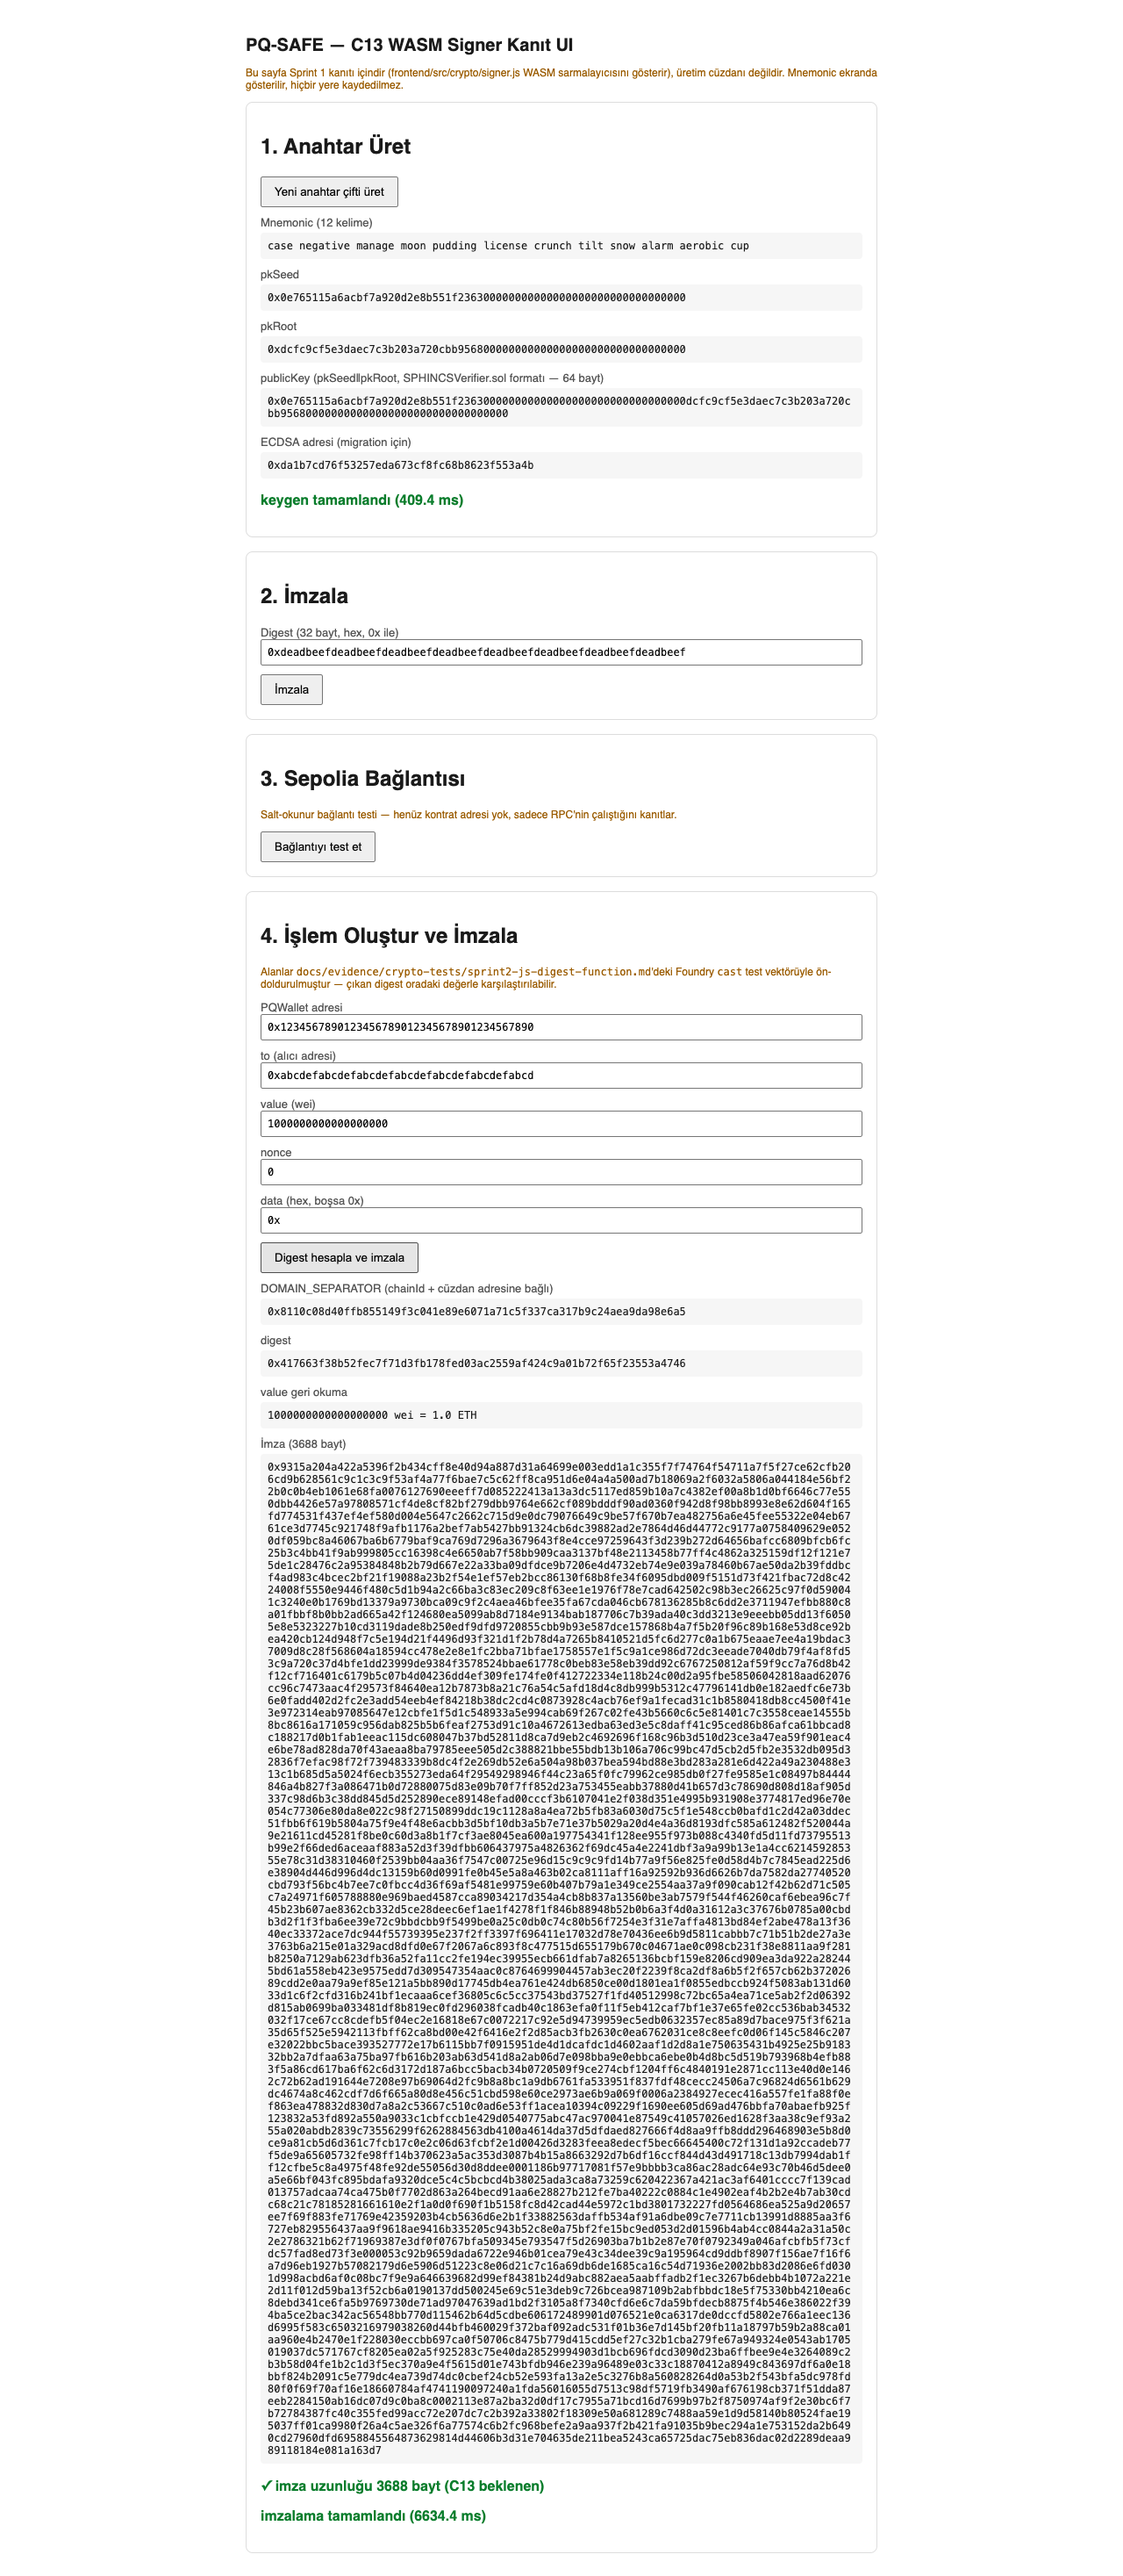
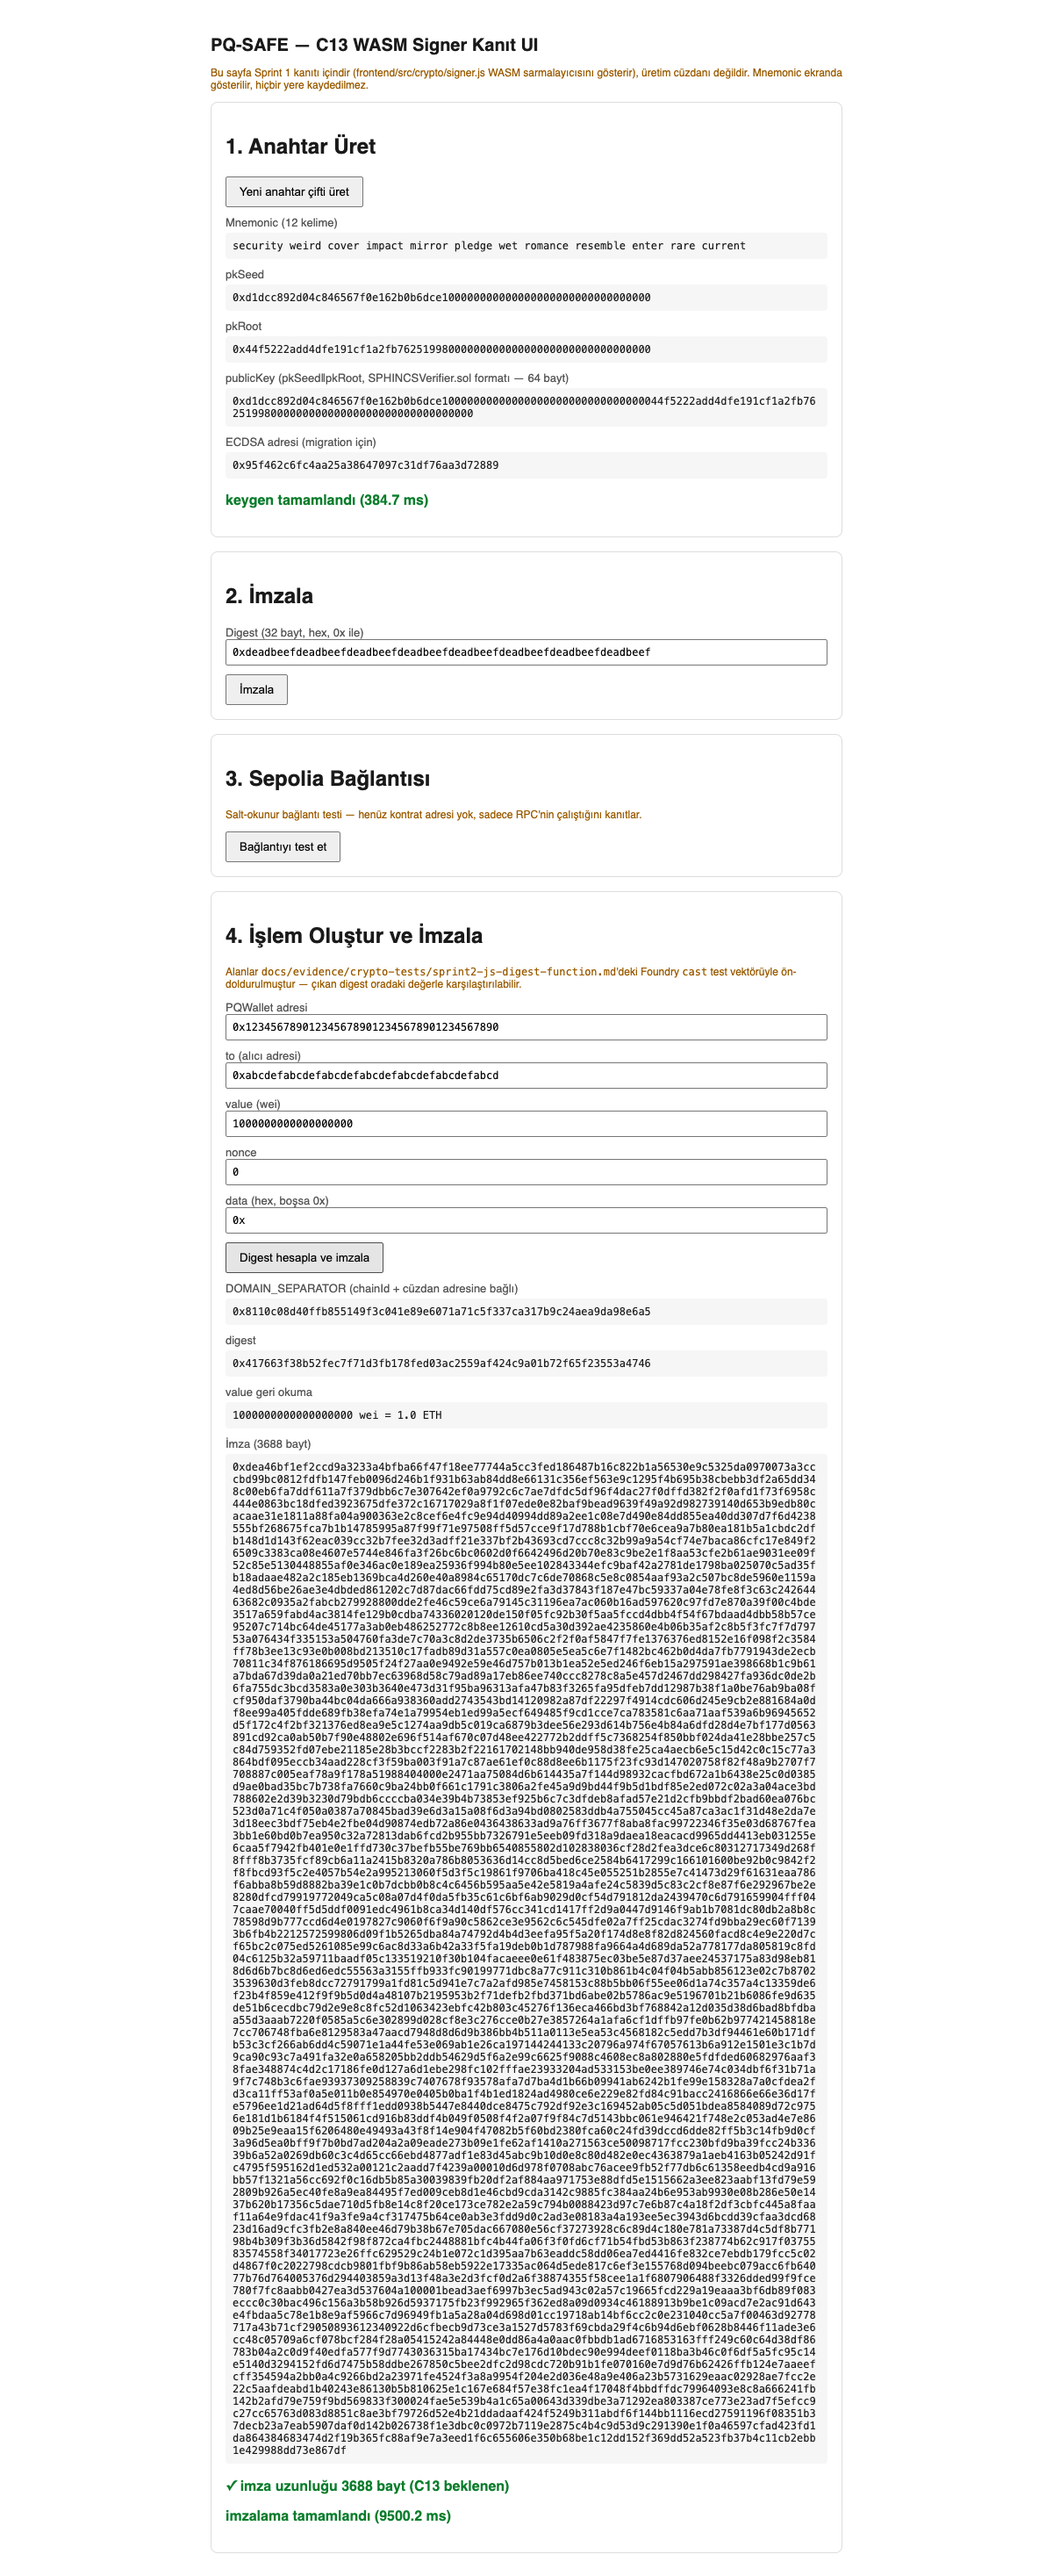
docs(evidence): işlem oluşturma ve imzalama akışı kanıt notu

Changed region(s): [[0.2158, 0.0, 0.7708, 0.9925]]

diff --git a/docs/evidence/crypto-tests/sprint3-transaction-builder.md b/docs/evidence/crypto-tests/sprint3-transaction-builder.md
@@ -1,0 +1,149 @@
+# Sprint 3 — İşlem oluşturma ve imzalama akışı kanıtı
+
+**Tarih:** 28 Ağustos 2026
+**Yazan:** Akif
+**Dosyalar:** `frontend/src/tx/buildTransaction.js`,
+`frontend/src/tx/build-transaction-test.mjs`, `frontend/index.html`,
+`frontend/src/main.js`, `frontend/src/crypto/signer.js`
+
+## Amaç
+
+Frontend iki şeyi ayrı ayrı kanıtlamıştı ama birbirine bağlamamıştı:
+`signer.js` rastgele bir digest'i imzalayabiliyordu (`sprint1-frontend-keygen-sign-ui.md`),
+`digest.js` dondurulmuş formata göre digest üretebiliyordu (`sprint2-js-digest-function.md`).
+Hiçbir akış ikisini birleştirmiyordu. Bu belge, kullanıcının girdiği gerçek
+işlem alanlarından gerçek bir digest üretilip o digest'in gerçekten
+imzalandığını kanıtlıyor.
+
+Bu, uçtan uca akışın Hakan'ın deploy'una bağlı olmayan kısmının tamamı.
+
+## Ortam
+
+```
+node    v22.21.0
+vite    8.2.2 (dev server)
+ethers  6.17.0
+Chrome  (Playwright, channel: chrome) — macOS 15.6
+```
+
+## 1. Otomatik doğrulama — `buildDigest()`
+
+`frontend/src/tx/build-transaction-test.mjs`, mevcut `.mjs` desenine uygun
+(`wasm-signer-test.mjs`, `noble-risk-test.mjs`).
+
+```
+$ cd frontend && node src/tx/build-transaction-test.mjs; echo "exit: $?"
+...
+TÜM TESTLER GEÇTİ
+exit: 0
+```
+
+**21 assertion** (10 değer karşılaştırması + 11 hata senaryosu), hepsi geçiyor.
+
+Beklenen digest değerleri Foundry `cast` ile bağımsız olarak üretildi
+(`sprint2-js-digest-function.md`), yani kendi kodunu kendine onaylatan bir
+test değil:
+
+| Test | Girdi | Beklenen (cast) |
+|---|---|---|
+| 1 | wallet `0x1234…7890`, nonce 0, to `0xabcd…abcd`, value `10^18`, data `0x` | DS `0x8110c08d…98e6a5`, digest `0x417663f3…3a4746` |
+| 2 | aynı wallet, nonce 5, value 42, data `0xdeadbeef` | digest `0xc9463c60…32ec29` |
+
+Kalan testler: checksum'suz adresin aynı digest'i vermesi, boş `data`'nın
+`0x` sayılması, alan-adlı hata mesajları, uint256 sınırları ve normalize
+edilmiş alanların döndürülmesi.
+
+## 2. Tarayıcı doğrulaması — uçtan uca
+
+Ön-doldurulmuş form (Test 1 vektörü) ile "Digest hesapla ve imzala":
+
+```
+DOMAIN_SEPARATOR : 0x8110c08d40ffb855149f3c041e89e6071a71c5f337ca317b9c24aea9da98e6a5
+digest           : 0x417663f38b52fec7f71d3fb178fed03ac2559af424c9a01b72f65f23553a4746
+value geri okuma : 1000000000000000000 wei = 1.0 ETH
+imza             : 3688 bayt (C13 beklenen) ✓
+imzalama süresi  : 9500.2 ms
+keygen süresi    : 384.7 ms
+```
+
+DOMAIN_SEPARATOR ve digest, yukarıdaki `cast` değerleriyle **birebir aynı** —
+yani tarayıcıdaki akış, bağımsız olarak doğrulanmış formatı üretiyor.
+
+Ekran görüntüsü: `docs/evidence/screenshots/sprint3-transaction-builder.png`
+
+**Süre notu:** imzalama süresi çalıştırmalar arasında değişiyor; aynı
+makinede 6634 ms ve 9500 ms ölçüldü. `sprint1-wasm-signer-test.md`'deki
+~7.5 sn ile aynı mertebede. Bu bir kanıt rakamı değil, kabaca bir gösterge.
+
+## 3. Hata yolları
+
+| Senaryo | Gözlenen |
+|---|---|
+| `to` = `0xzzz` | `Hata: to alanı geçerli bir adres değil: 0xzzz` |
+| `nonce` boş / hiç verilmemiş | `nonce alanı boş bırakılamaz` |
+| `value` = 2^256 | `value alanı uint256 sınırını aşıyor: …` |
+| anahtar üretilmemiş | `Önce anahtar üret.` |
+
+Hepsi **alan adını** taşıyor. Beş girdili bir formda ethers'ın çıplak
+`invalid address` mesajı hangi alanı kastettiğini söylemediği için
+kullanılamaz.
+
+### Boş `nonce` neden hata veriyor
+
+JavaScript'te `BigInt('') === 0n`. İlk implementasyonda boş, eksik veya
+`null` bir `nonce` sessizce `0`'a çöküyordu — yani "nonce girmedim" ile
+"nonce=0 girdim" ayırt edilemiyordu. SPHINCS- stateless olduğu ve leaf
+sayacı bulunmadığı için **nonce bu projenin tek replay koruması**
+(bkz. `CLAUDE.md`). Review bunu yakaladı, boş girdi artık açıkça
+reddediliyor.
+
+## 4. XSS doğrulaması
+
+Hata mesajları kullanıcının girdiği ham değeri içeriyor (hangi alanın hatalı
+olduğunu söylemek için) ve `innerHTML` ile basılıyor. Sayfa aynı zamanda
+mnemonic'i DOM'a yazdığı için bu bir sızıntı yolu olurdu. Review yakaladı,
+`esc()` yardımcısı eklendi ve dört hata bloğunun hepsine uygulandı.
+
+Anahtar üretildikten sonra (yani mnemonic DOM'dayken) `to` alanına
+`<img src=x onerror="window.__pwned=1">` yapıştırılarak test edildi:
+
+```
+window.__pwned      : undefined   ← script çalışmadı
+DOM'da gerçek <img> : YOK
+HTML kaçışlı mı     : EVET (&lt;img)
+görünen metin       : Hata: to alanı geçerli bir adres değil: <img src=x onerror="window.__pwned=1">
+```
+
+Payload hata mesajına ulaşıyor (yani test gerçekten kaçışı sınıyor) ama
+metin olarak gösteriliyor, çalıştırılmıyor.
+
+## 5. Tasarım kararı: normalize edilmiş alanlar döndürülüyor
+
+`buildDigest()` sadece hash'leri değil, normalize ettiği alanları da
+(`fields`) döndürüyor. Gerekçe: sonraki adımda `execute()` calldata'sı bu
+alanlardan kurulacak ve **digest'e giren byte'larla birebir aynı olmak
+zorunda**, yoksa on-chain verifier `false` döner. Ham girdiden yeniden
+normalize edilseydi ikinci bir normalizasyon yolu doğar ve sessizce
+sapabilirdi — hata modu yerelde yeşil sayfa, zincirde çıplak revert olurdu.
+Test 9 bunun regresyon guard'ı.
+
+## Bilinen sınırlar
+
+Bunlar "yapılmadı" değil, **şu an böyle** — sonraki adımda değişecekler:
+
+- **Nonce serbest metin.** Bu akış replay korumasını *göstermiyor*; nonce
+  sadece digest'e giren bir sayı. Gerçek koruma, nonce'un `PQWallet`'ın
+  on-chain state'inden okunmasıyla test edilir ve Hakan'ın deploy adresine
+  bağlı. Üretim UI'ında bu alan serbest metin olmayacak.
+- **PQWallet adresi de girdi alanı.** Aynı gerekçe.
+- Üretilen imza **on-chain doğrulanmıyor** (deploy edilmiş kontrat gerekir);
+  imzalayan anahtar sayfanın rastgele anahtarı, gerçek owner anahtarı değil.
+- `execute()` calldata'sı üretilmiyor, tx gönderilmiyor.
+- Bu sayfa hâlâ kanıt arayüzü, üretim cüzdan UI'ı değil.
+
+## Sonuç
+
+İşlem alanlarından dondurulmuş formata uygun digest üretiliyor, üretilen
+digest gerçekten imzalanıyor, ve digest bağımsız bir araçla (Foundry `cast`)
+doğrulanmış değerle birebir eşleşiyor. Hakan'ın deploy çıktıları geldiğinde
+geriye imzayı zincire göndermek kalıyor.
